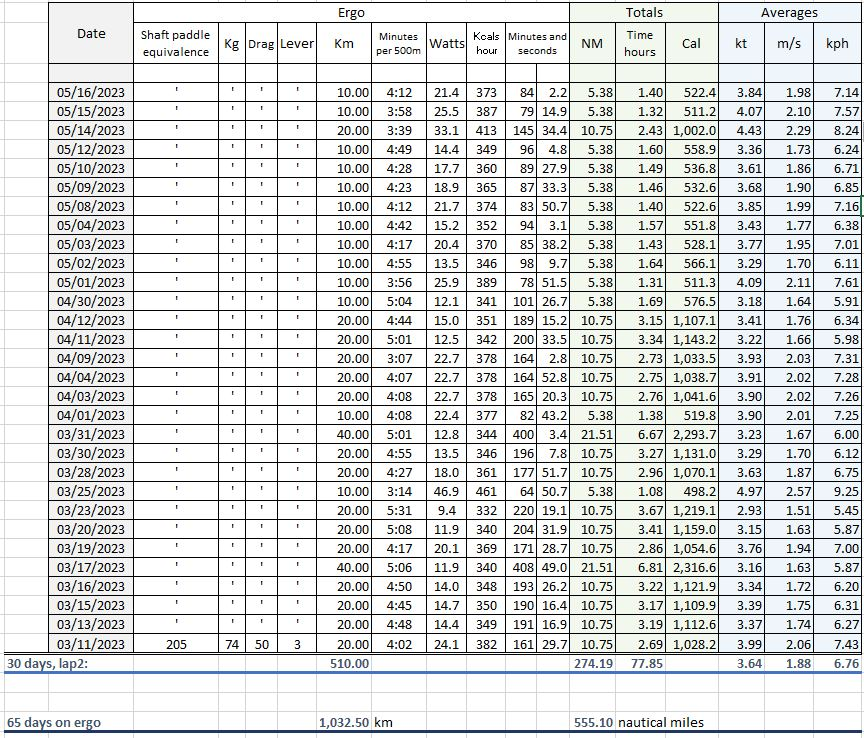
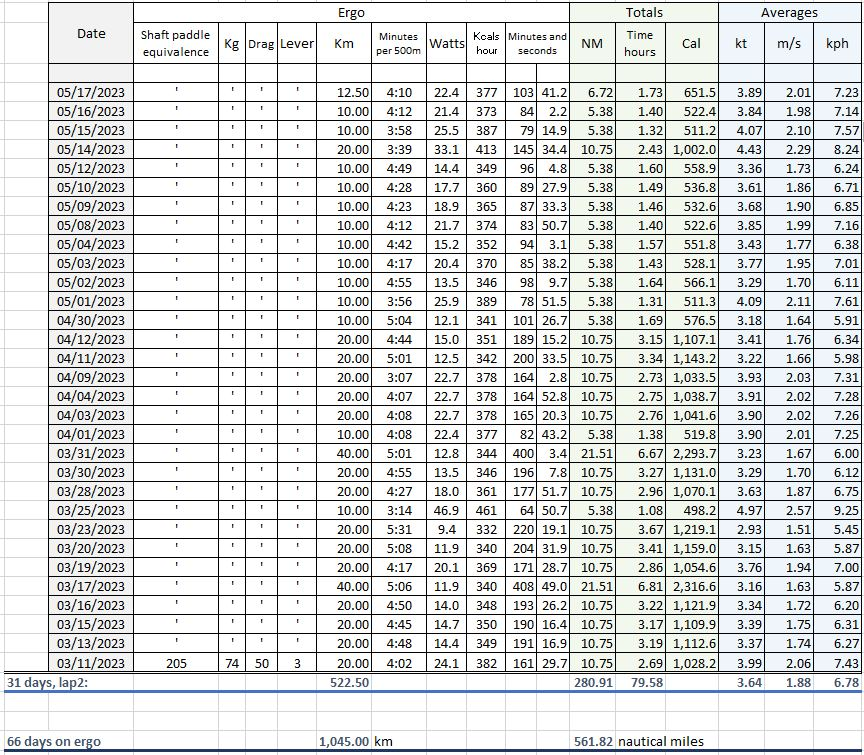
updates

diff --git a/dry-run/log/index.html b/dry-run/log/index.html
@@ -214,11 +214,11 @@ $(document).ready(function(){
 <p>This is not the actual trip. This is just training mapped on chart to have an idea of what the real thing might be.</p>
 </blockquote>
 <blockquote>
-<p>May 16, 2023, lap2</p>
+<p>May 17, 2023, lap2</p>
 </blockquote>
-<p><img src="/img/may16.JPG" alt="May 16">
+<p><img src="/img/may17.JPG" alt="May 17">
 <div style="text-align: center">
-30 days on ergo, 274 nautical miles, 510 km, lap2
+31 days on ergo, 281 nautical miles, 522.5 km, lap2
 </div>
 </p>
 <p><img src="/img/Stats2.JPG" alt="Stats">
